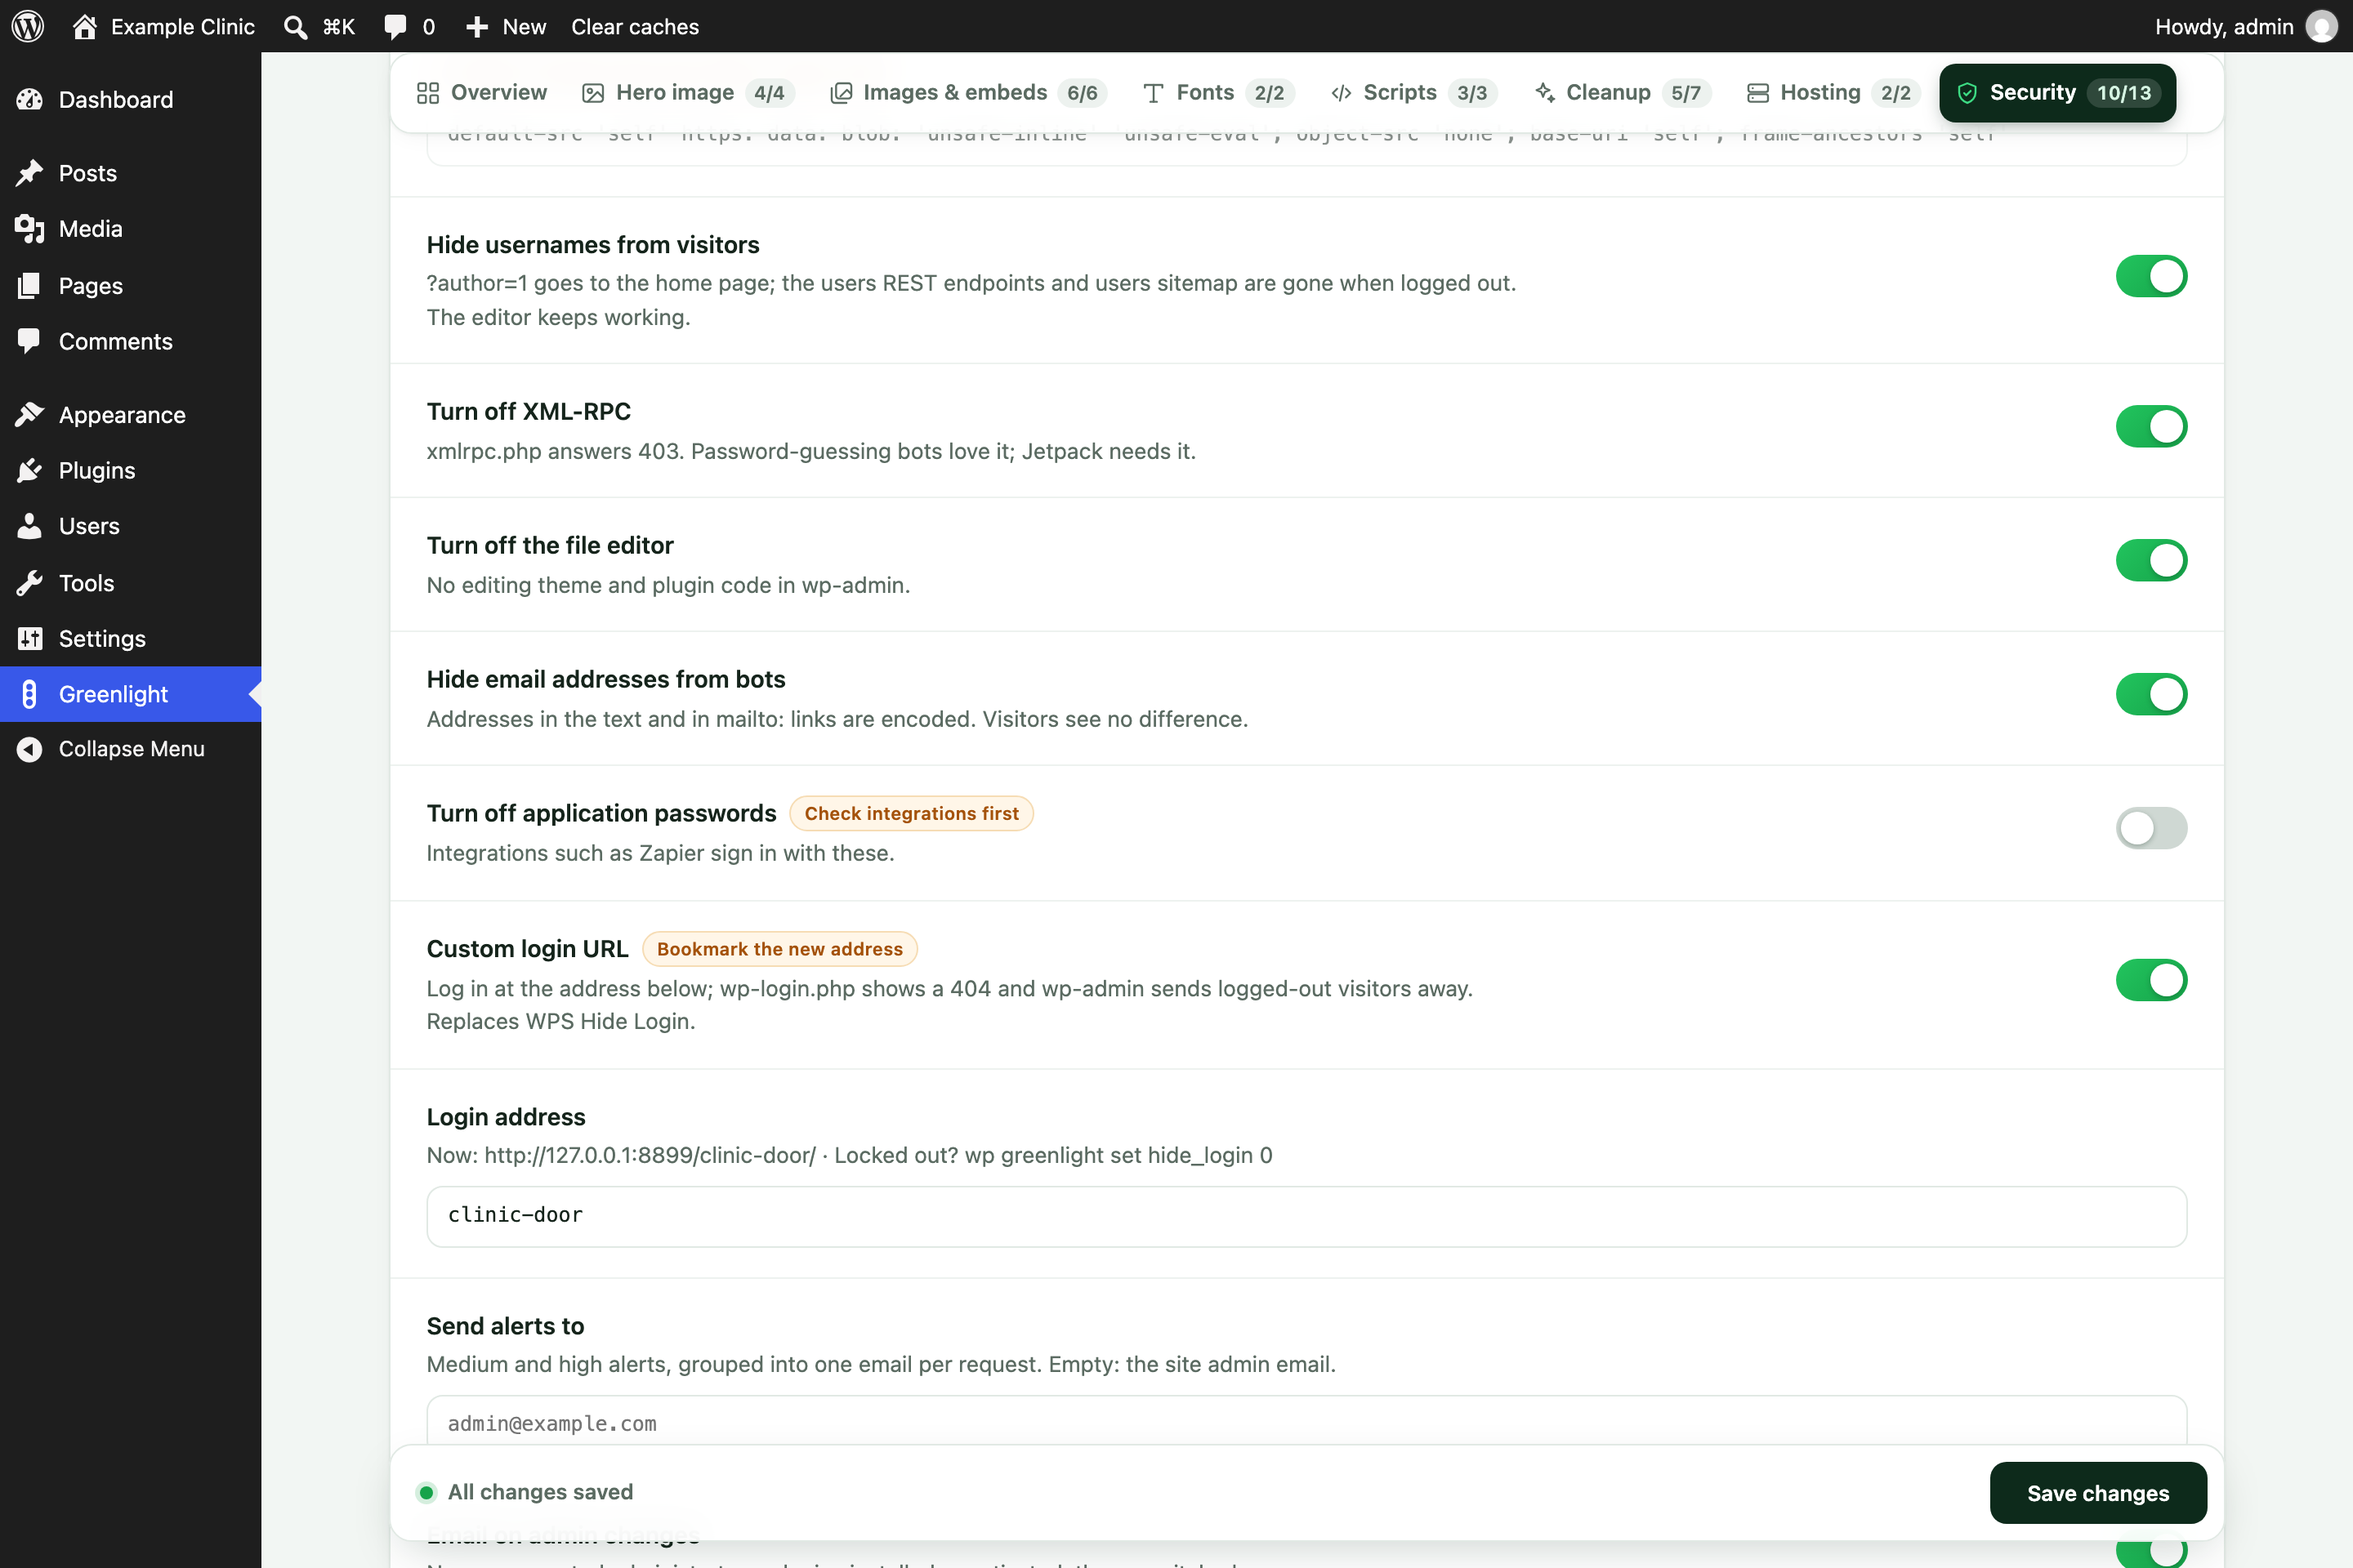
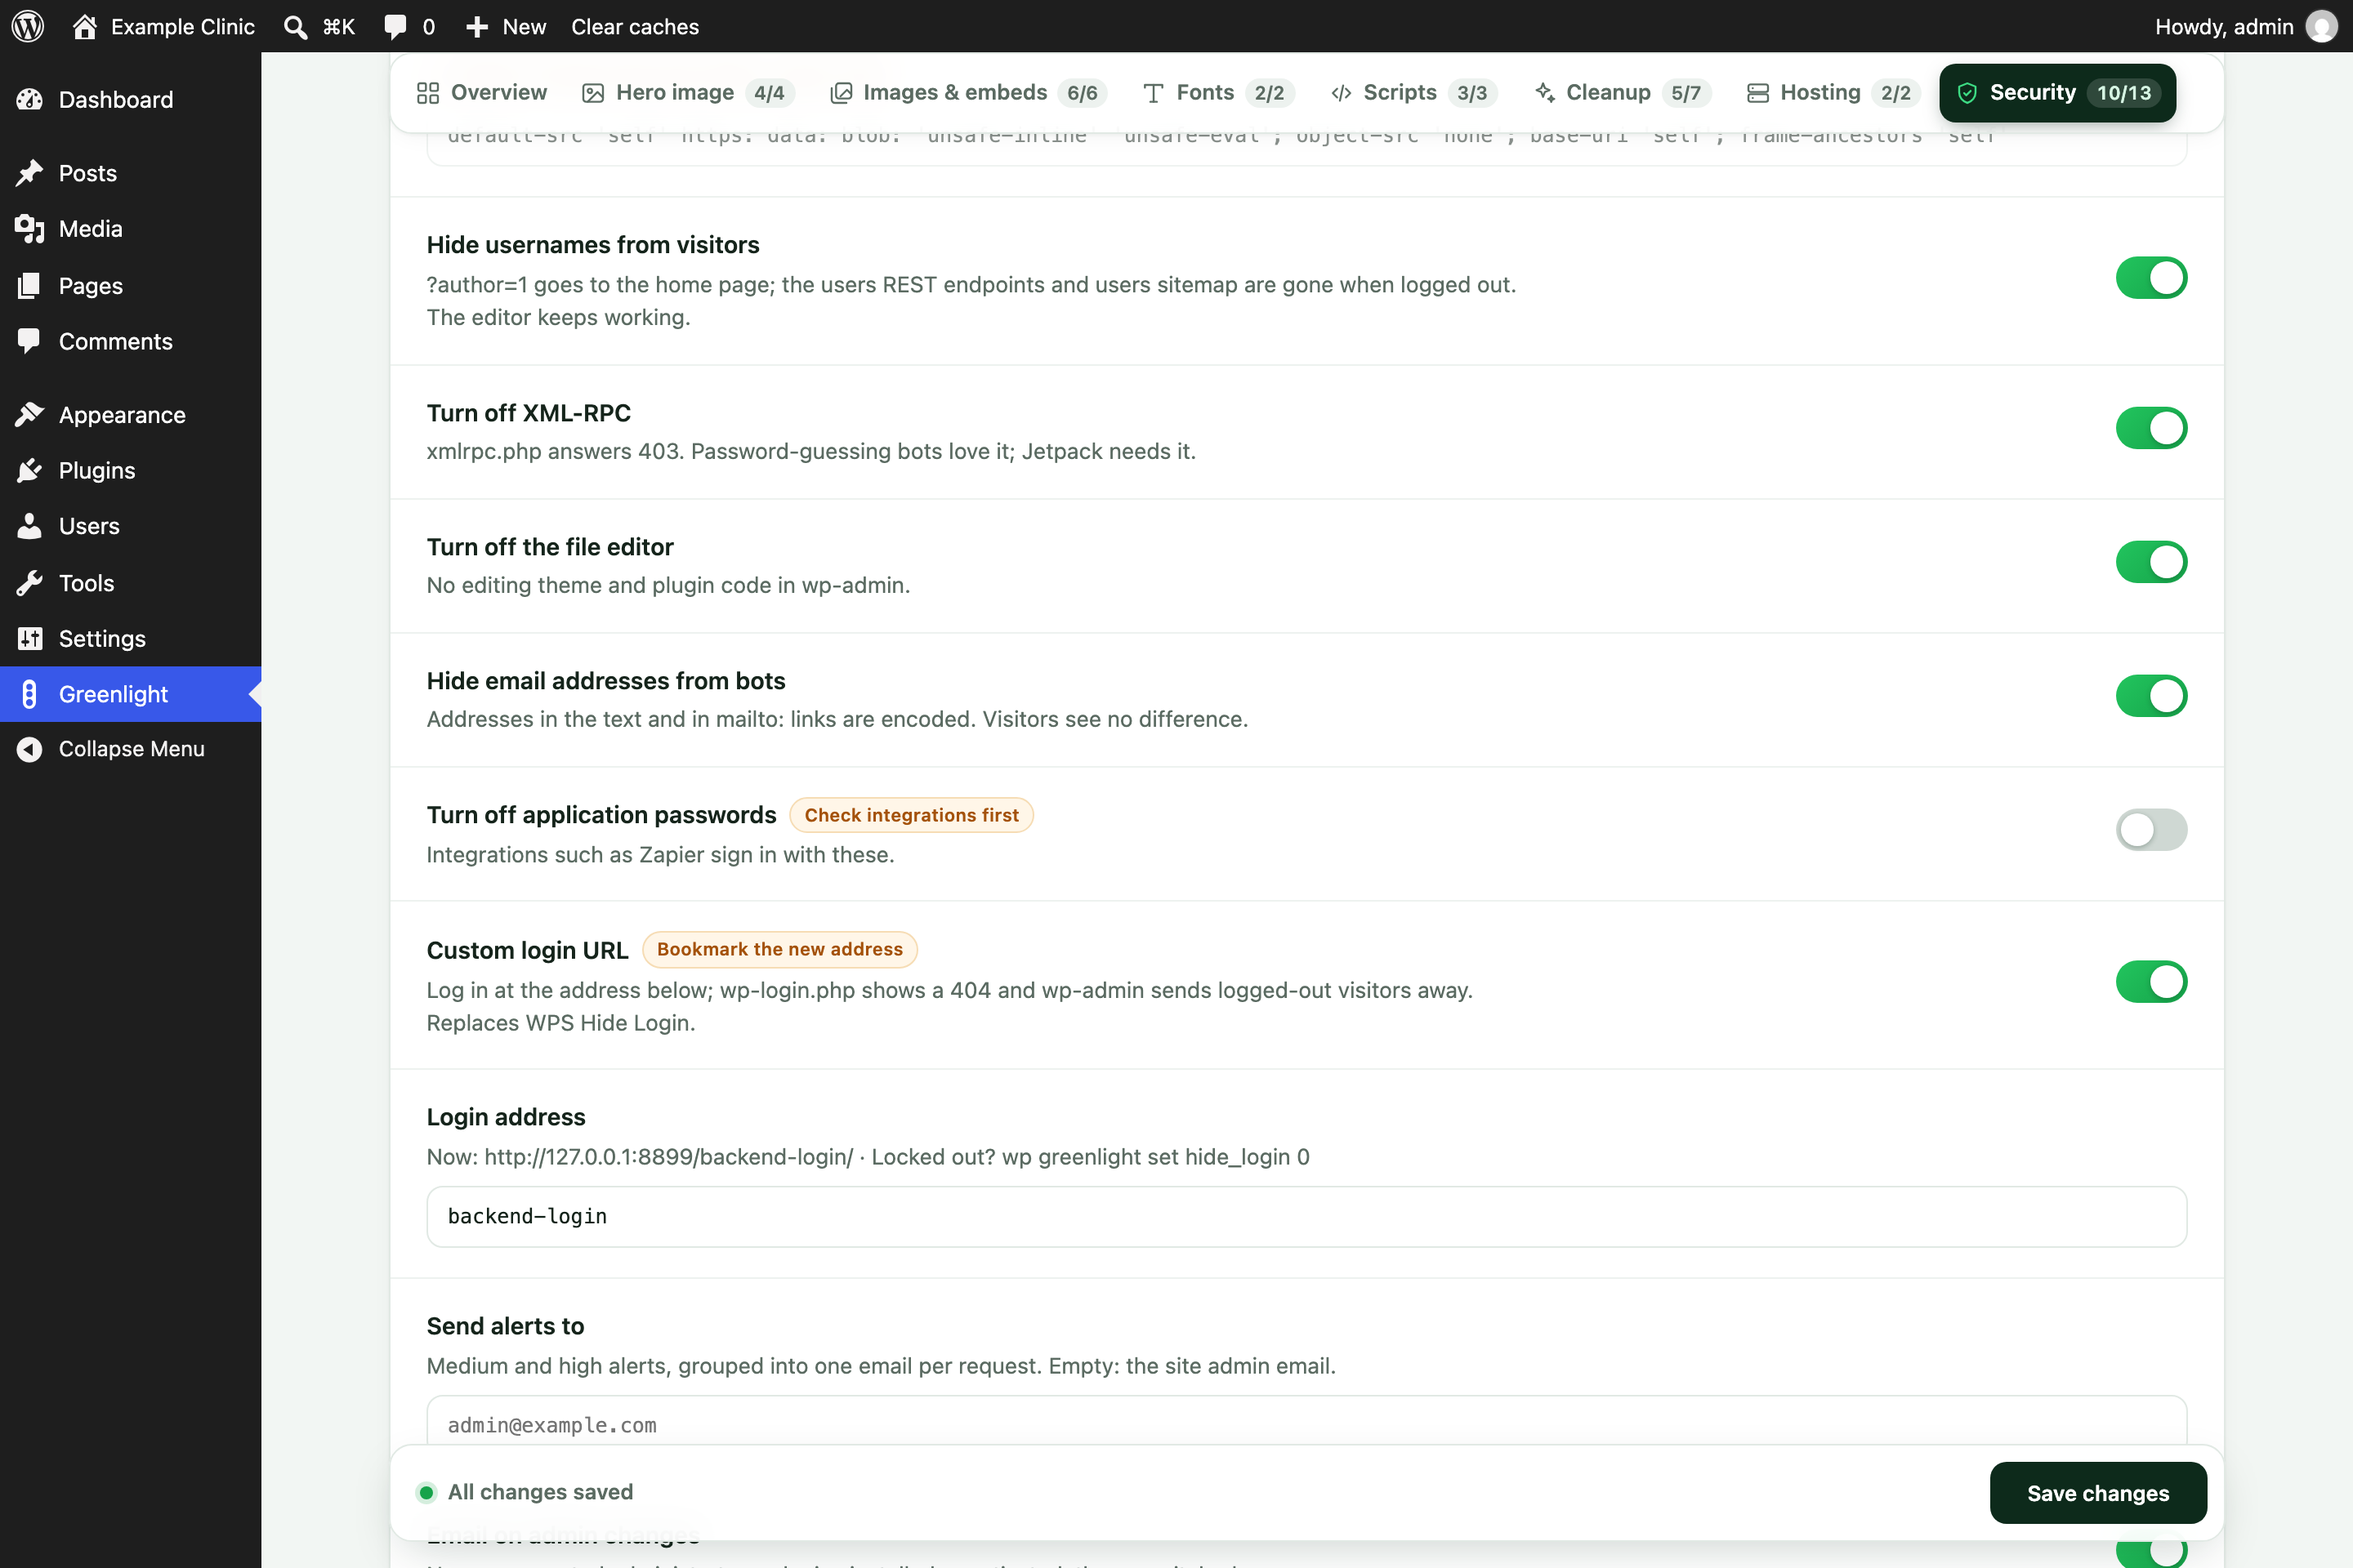
Login address defaults to /backend-login/
An empty or refused login_slug now falls back to backend-login instead of
WPS Hide Login's slug or a random one. README, changelog and screenshots
updated to match.

diff --git a/includes/class-admin.php b/includes/class-admin.php
@@ -245,7 +245,7 @@ class Admin {
 					'email_obfuscation'  => array( 'check', 'Hide email addresses from bots', 'Addresses in the text and in mailto: links are encoded. Visitors see no difference.' ),
 					'app_passwords_off'  => array( 'check', 'Turn off application passwords', 'Integrations such as Zapier sign in with these.', array( 'badge' => array( 'warn', 'Check integrations first' ) ) ),
 					'hide_login'         => array( 'check', 'Custom login URL', 'Log in at the address below; wp-login.php shows a 404 and wp-admin sends logged-out visitors away. Replaces WPS Hide Login.', array( 'badge' => array( 'warn', 'Bookmark the new address' ) ) ),
-					'login_slug'         => array( 'text', 'Login address', Hide_Login::url() ? 'Now: ' . Hide_Login::url() . ' · Locked out? wp greenlight set hide_login 0' : 'Letters, numbers and dashes. Empty: Greenlight picks one (WPS Hide Login\'s, if it was in use).', array( 'requires' => 'hide_login', 'placeholder' => 'e.g. clinic-login' ) ),
+					'login_slug'         => array( 'text', 'Login address', Hide_Login::url() ? 'Now: ' . Hide_Login::url() . ' · Locked out? wp greenlight set hide_login 0' : 'Letters, numbers and dashes. Default: backend-login.', array( 'requires' => 'hide_login', 'placeholder' => 'backend-login' ) ),
 					'alert_email'        => array( 'text', 'Send alerts to', 'Medium and high alerts, grouped into one email per request. Empty: the site admin email.', array( 'type' => 'email', 'placeholder' => get_option( 'admin_email' ) ) ),
 					'admin_alerts'       => array( 'check', 'Email on admin changes', 'New or promoted administrators, plugins installed or activated, theme switched.' ),
 					'script_drift'       => array( 'check', 'Alert on new script domains', 'Learns where pages load scripts from, then alerts once for each new domain.', array( 'action' => array( 'Reset baseline', wp_nonce_url( admin_url( 'admin-post.php?action=greenlight_reset_baseline' ), 'greenlight_reset_baseline' ) ) ) ),

diff --git a/includes/class-hide-login.php b/includes/class-hide-login.php
@@ -11,6 +11,9 @@ defined( 'ABSPATH' ) || exit;
  */
 class Hide_Login {
 
+	/** The login address unless one is set: /backend-login/. */
+	const DEFAULT_SLUG = 'backend-login';
+
 	/** Never usable as the login address: WordPress's own paths and the words bots try first. */
 	const RESERVED = array( 'admin', 'login', 'wp-admin', 'wp-login', 'wp-login-php', 'dashboard', 'wp-content', 'wp-includes', 'wp-json', 'feed', 'xmlrpc', 'sitemap', 'wp-sitemap' );
 
@@ -39,10 +42,9 @@ class Hide_Login {
 		return is_string( $slug ) && preg_match( '/^[a-z0-9][a-z0-9-]{2,49}$/', $slug ) && ! in_array( $slug, self::RESERVED, true );
 	}
 
-	/** A fresh address: WPS Hide Login's when it was in use (the URL people know keeps working), otherwise a random one. */
+	/** The address to use when none (or one that isn't allowed) is set. */
 	public static function suggest() {
-		$whl = sanitize_title( (string) get_option( 'whl_page', '' ) );
-		return self::valid( $whl ) ? $whl : 'sign-in-' . strtolower( wp_generate_password( 6, false ) );
+		return self::DEFAULT_SLUG;
 	}
 
 	/** The login page's address, or null while the feature is off. */

diff --git a/includes/class-settings.php b/includes/class-settings.php
@@ -70,7 +70,7 @@ class Settings {
 			'email_obfuscation'  => 1,
 			'app_passwords_off'  => 0, // Zapier and other integrations sign in with these.
 			'hide_login'         => 0, // Moves the login page: off until someone chooses to.
-			'login_slug'         => '',
+			'login_slug'         => 'backend-login',
 
 			// Security: alerts. Off until switched on: they email the site admin address, often the client's.
 			'alert_email'        => '',

diff --git a/README.md b/README.md
@@ -55,14 +55,14 @@ One switch per feature. The names are the setting keys for `wp greenlight set` a
 | `file_editor_off` | on | Defines `DISALLOW_FILE_EDIT`, unless wp-config.php already defines it either way. |
 | `email_obfuscation` | on | Email addresses in the page text and in `href="mailto:…"` are encoded with WordPress's `antispambot()` inside Greenlight's HTML pass. Script and style contents, comments and every other attribute are untouched. Visitors see no difference. |
 | `app_passwords_off` | off | Turns off application passwords. Integrations such as Zapier sign in with them, so check before switching on. |
-| `hide_login` | off | Custom login URL, the job WPS Hide Login does: the login page moves to `/<login_slug>/`. `wp-login.php` shows the theme's 404, `/login` and `/admin` no longer lead to it, and logged-out visits to wp-admin go to `/404/` (admin-ajax.php, admin-post.php and password-protected posts keep working). Every login, logout and password-reset link WordPress makes, emails included, uses the new address. |
+| `hide_login` | off | Custom login URL, the job WPS Hide Login does: the login page moves to `/backend-login/` (or `/<login_slug>/`). `wp-login.php` shows the theme's 404, `/login` and `/admin` no longer lead to it, and logged-out visits to wp-admin go to `/404/` (admin-ajax.php, admin-post.php and password-protected posts keep working). Every login, logout and password-reset link WordPress makes, emails included, uses the new address. |
 
-**Custom login URL.** Set the address with `login_slug` (letters, numbers and dashes; `login`,
-`admin`, `wp-admin` and similar are refused). Left empty, Greenlight picks one: WPS Hide Login's address
-when that plugin was in use, so the URL people know keeps working, otherwise `sign-in-` plus six random
-characters. The Security tab and `wp greenlight status` show the current address. Moving a site off
-WPS Hide Login: switch this on, check the address, then deactivate WPS Hide Login (the Overview lists it
-as an overlapping plugin while both are on). Locked out: `wp greenlight set hide_login 0` brings
+**Custom login URL.** The default address is **`/backend-login/`**. Change it with `login_slug`
+(letters, numbers and dashes); an empty address, or one that's refused (`login`, `admin`, `wp-admin` and
+similar), falls back to `backend-login`. The Security tab and `wp greenlight status` show the current
+address. Moving a site off WPS Hide Login: to keep its address (and people's bookmarks), set
+`login_slug` to WPS Hide Login's slug first; then switch this on, check the address, and deactivate WPS
+Hide Login (the Overview lists it as an overlapping plugin while both are on). Locked out: `wp greenlight set hide_login 0` brings
 `wp-login.php` back. If the login page misbehaves behind a host's page cache, ask the host to exclude
 the address. `hide_login` isn't in the `wp greenlight security` JSON, which keeps schema 1 unchanged.
 
@@ -174,8 +174,8 @@ wp greenlight set xmlrpc_off 0
 wp greenlight set file_editor_off 1
 wp greenlight set email_obfuscation 1
 wp greenlight set app_passwords_off 1
-wp greenlight set login_slug clinic-door
-wp greenlight set hide_login 1
+wp greenlight set hide_login 1                 # login at /backend-login/
+wp greenlight set login_slug clinic-door       # or another address
 wp greenlight set alert_email alerts@example.com
 wp greenlight set admin_alerts 1
 wp greenlight set script_drift 1

diff --git a/CHANGELOG.md b/CHANGELOG.md
@@ -7,8 +7,8 @@
   moves to `/<login_slug>/`; `wp-login.php` shows the theme's 404; `/login` and `/admin` no longer lead
   to it; logged-out visits to wp-admin go to `/404/`. Login, logout, lost-password and reset-email links
   all use the new address; admin-ajax.php, admin-post.php and password-protected posts keep working.
-  An empty address reuses WPS Hide Login's (so existing bookmarks keep working) or picks a random one;
-  reserved words such as `login` and `admin` are refused. WPS Hide Login is listed as an overlapping
+  The default address is `/backend-login/` (`login_slug`); an empty address, or a reserved word such as
+  `login` or `admin`, falls back to it. WPS Hide Login is listed as an overlapping
   plugin while both are on. `wp greenlight set hide_login 0` undoes it from the command line.
 - `wp greenlight status` shows the login page address.
 
